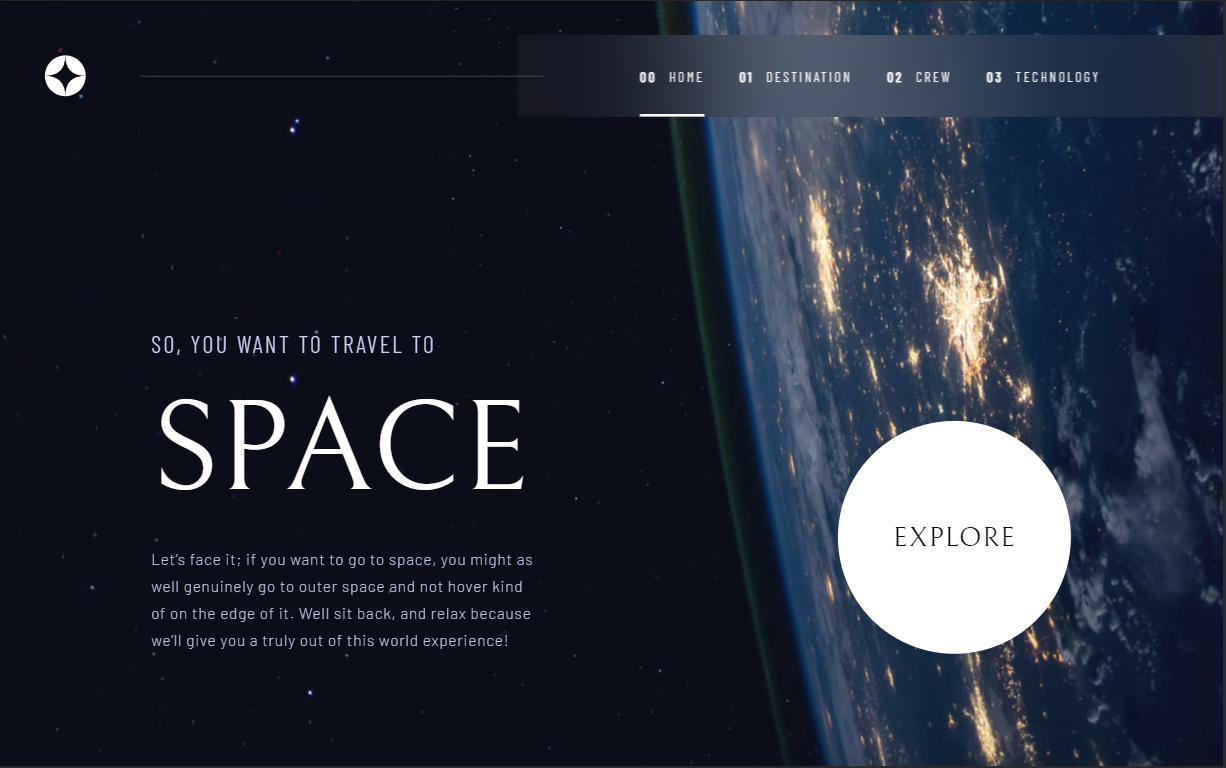
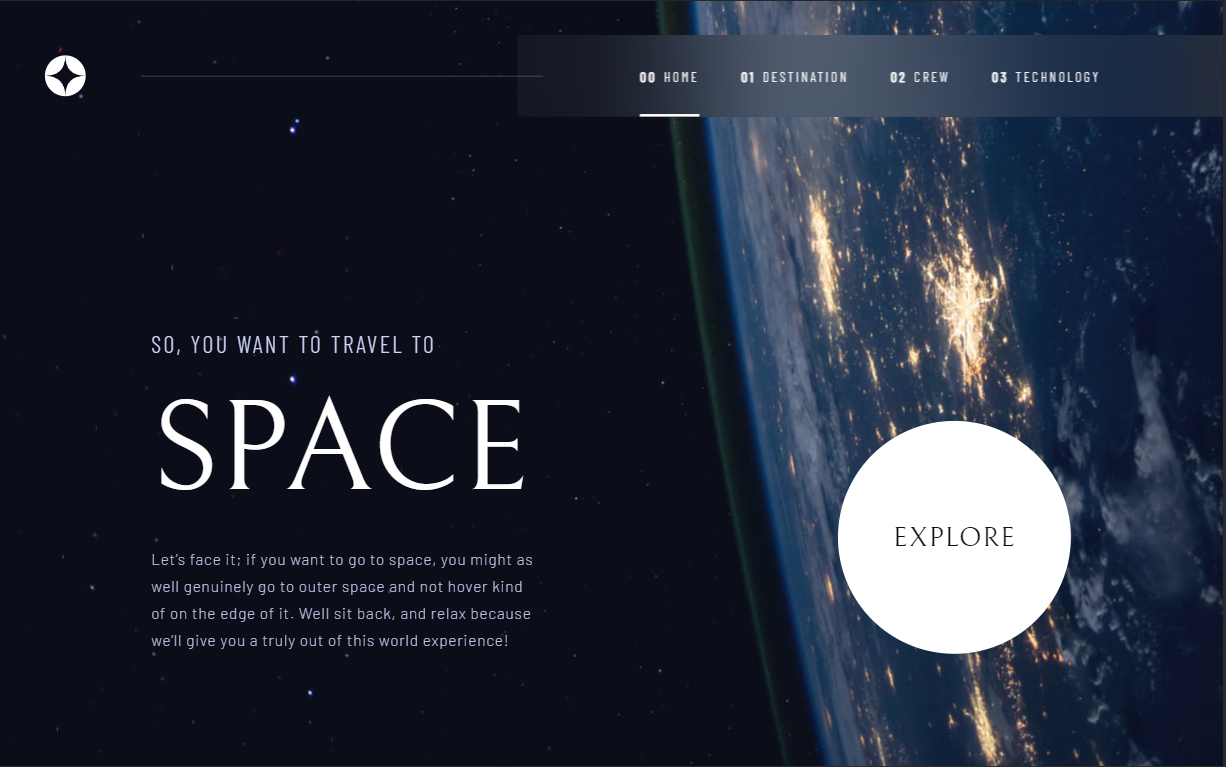
replaced the screenshots as some show outisde edges

diff --git a/README.md b/README.md
@@ -37,7 +37,7 @@ Users should be able to:
 ![](./screenshots/tablet/tablet-crew.PNG)
 ![](./screenshots/tablet/tablet-technology.PNG)
 
-**_Mobile Layout_** (375 x 667) \
+**_Mobile Layout_** (375 x 667 ~ 850) \
 ![](./screenshots/mobile/mobile-home.PNG)
 ![](./screenshots/mobile/mobile-home-nav-drawer.PNG)
 ![](./screenshots/mobile/mobile-destination.PNG)
